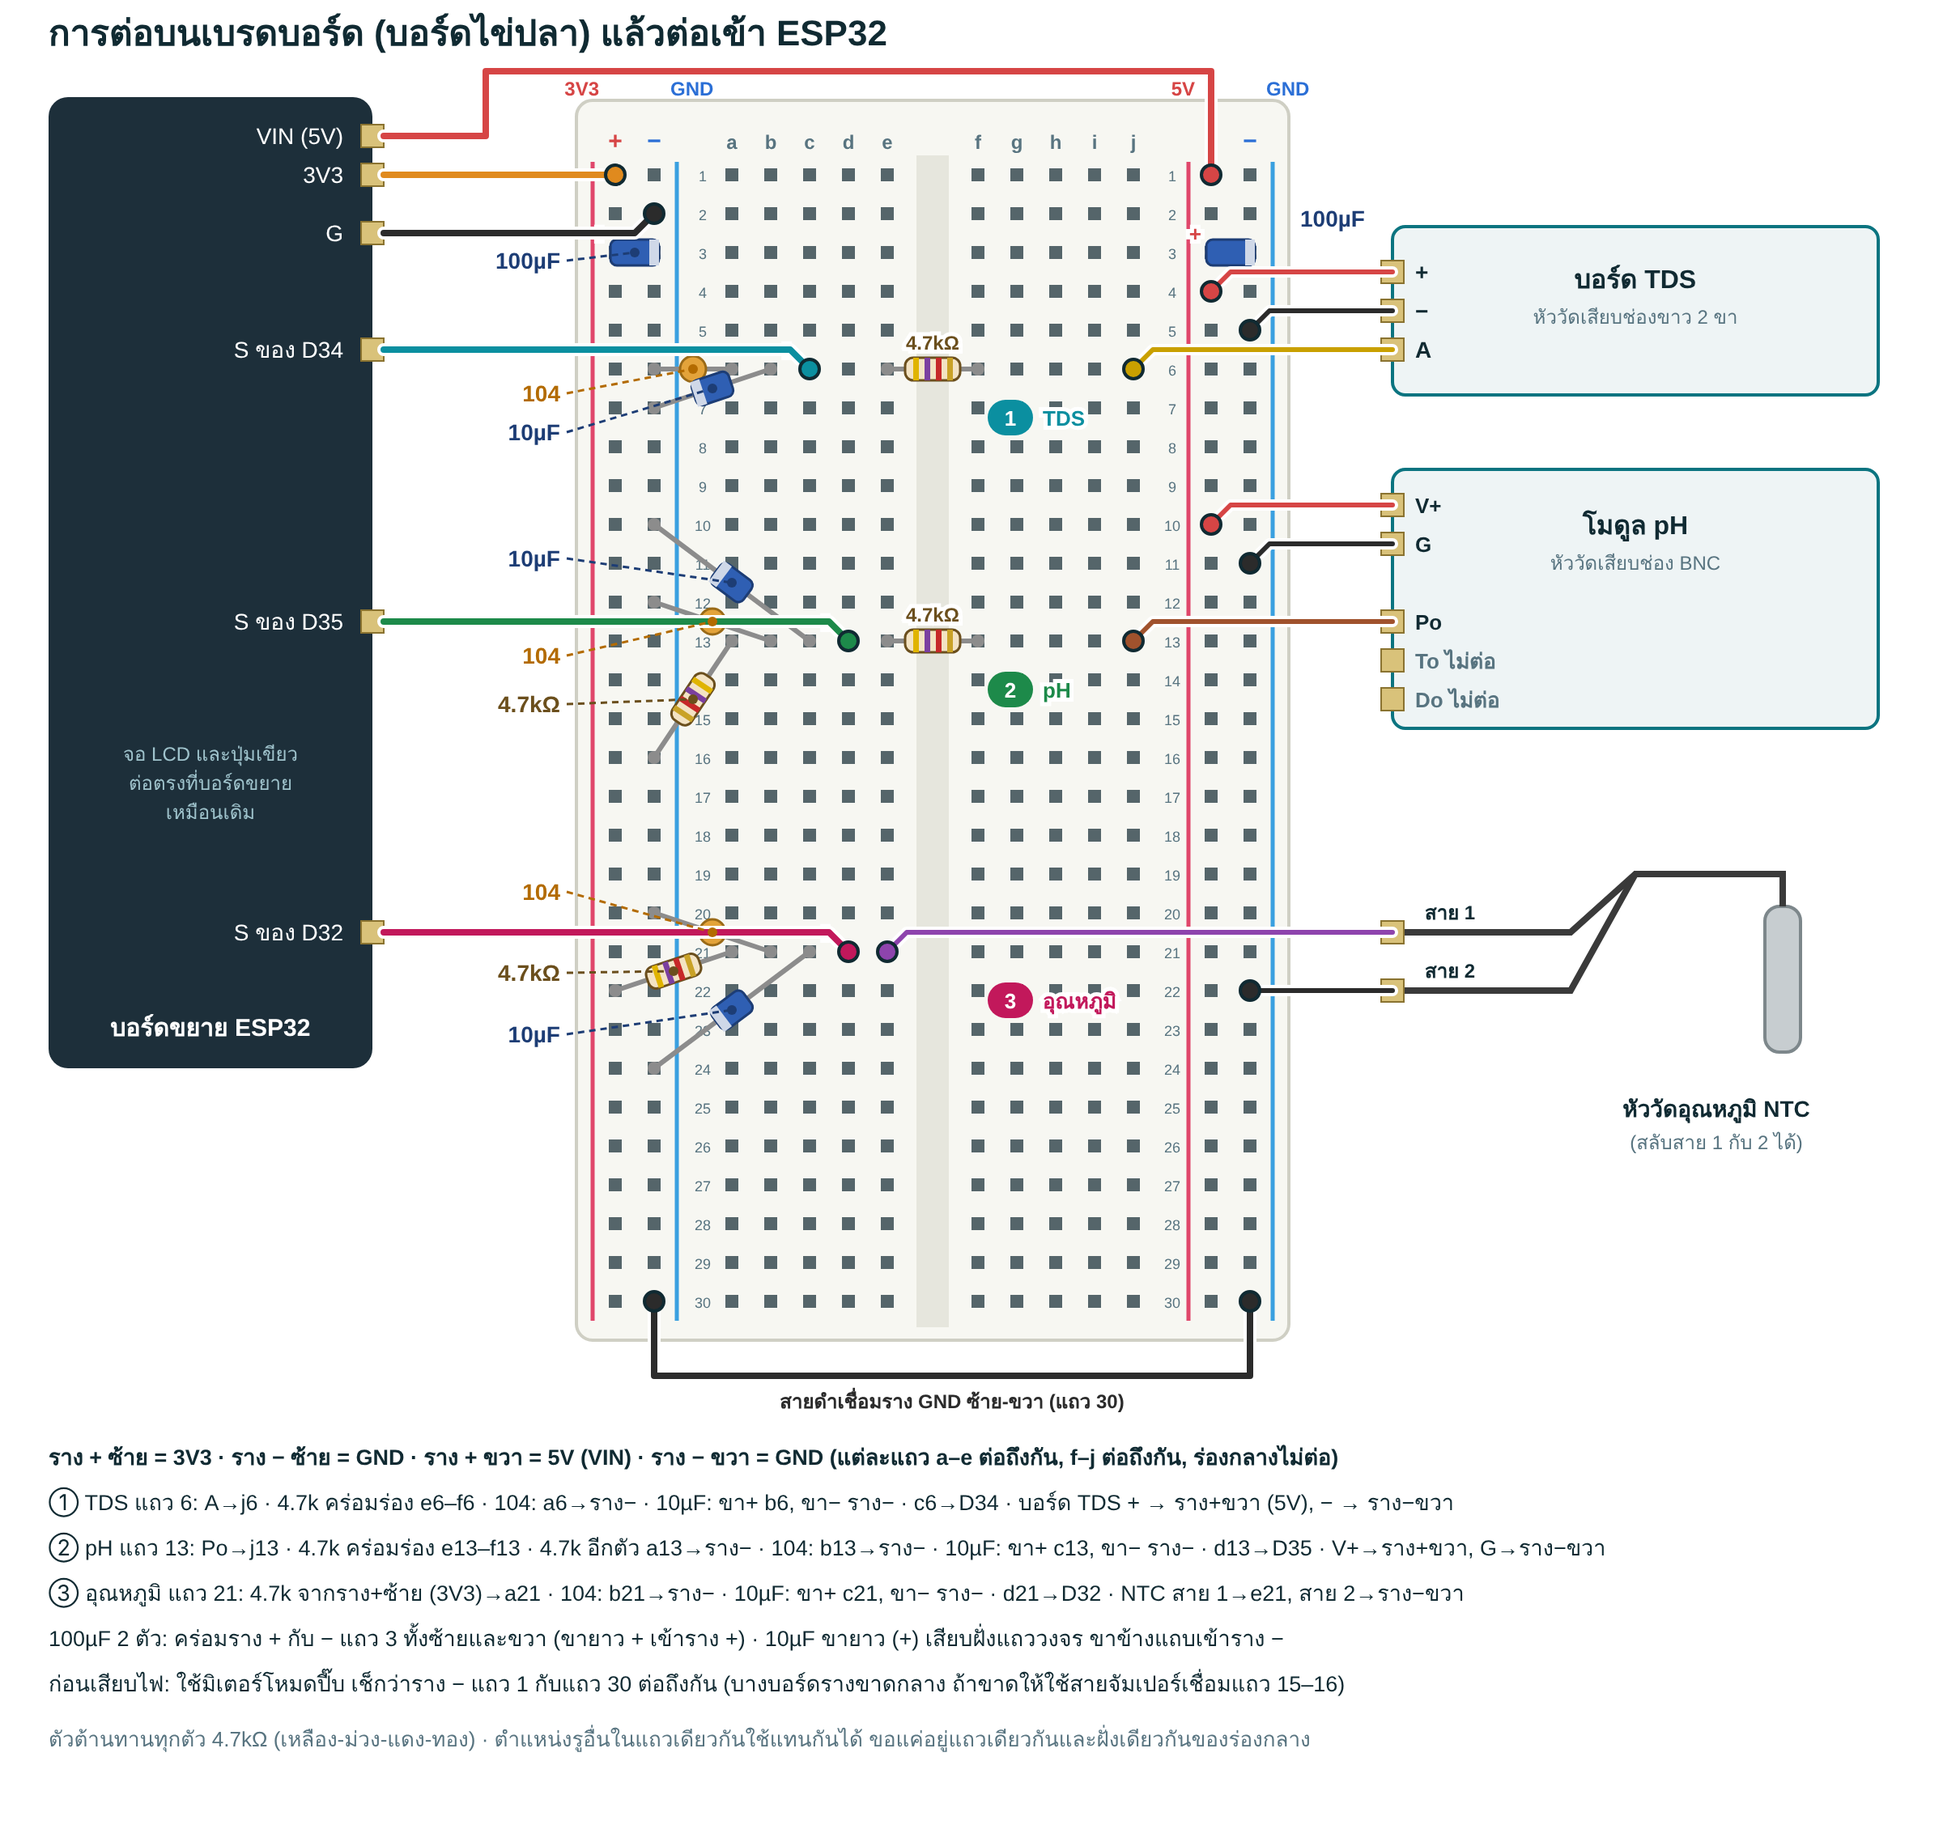
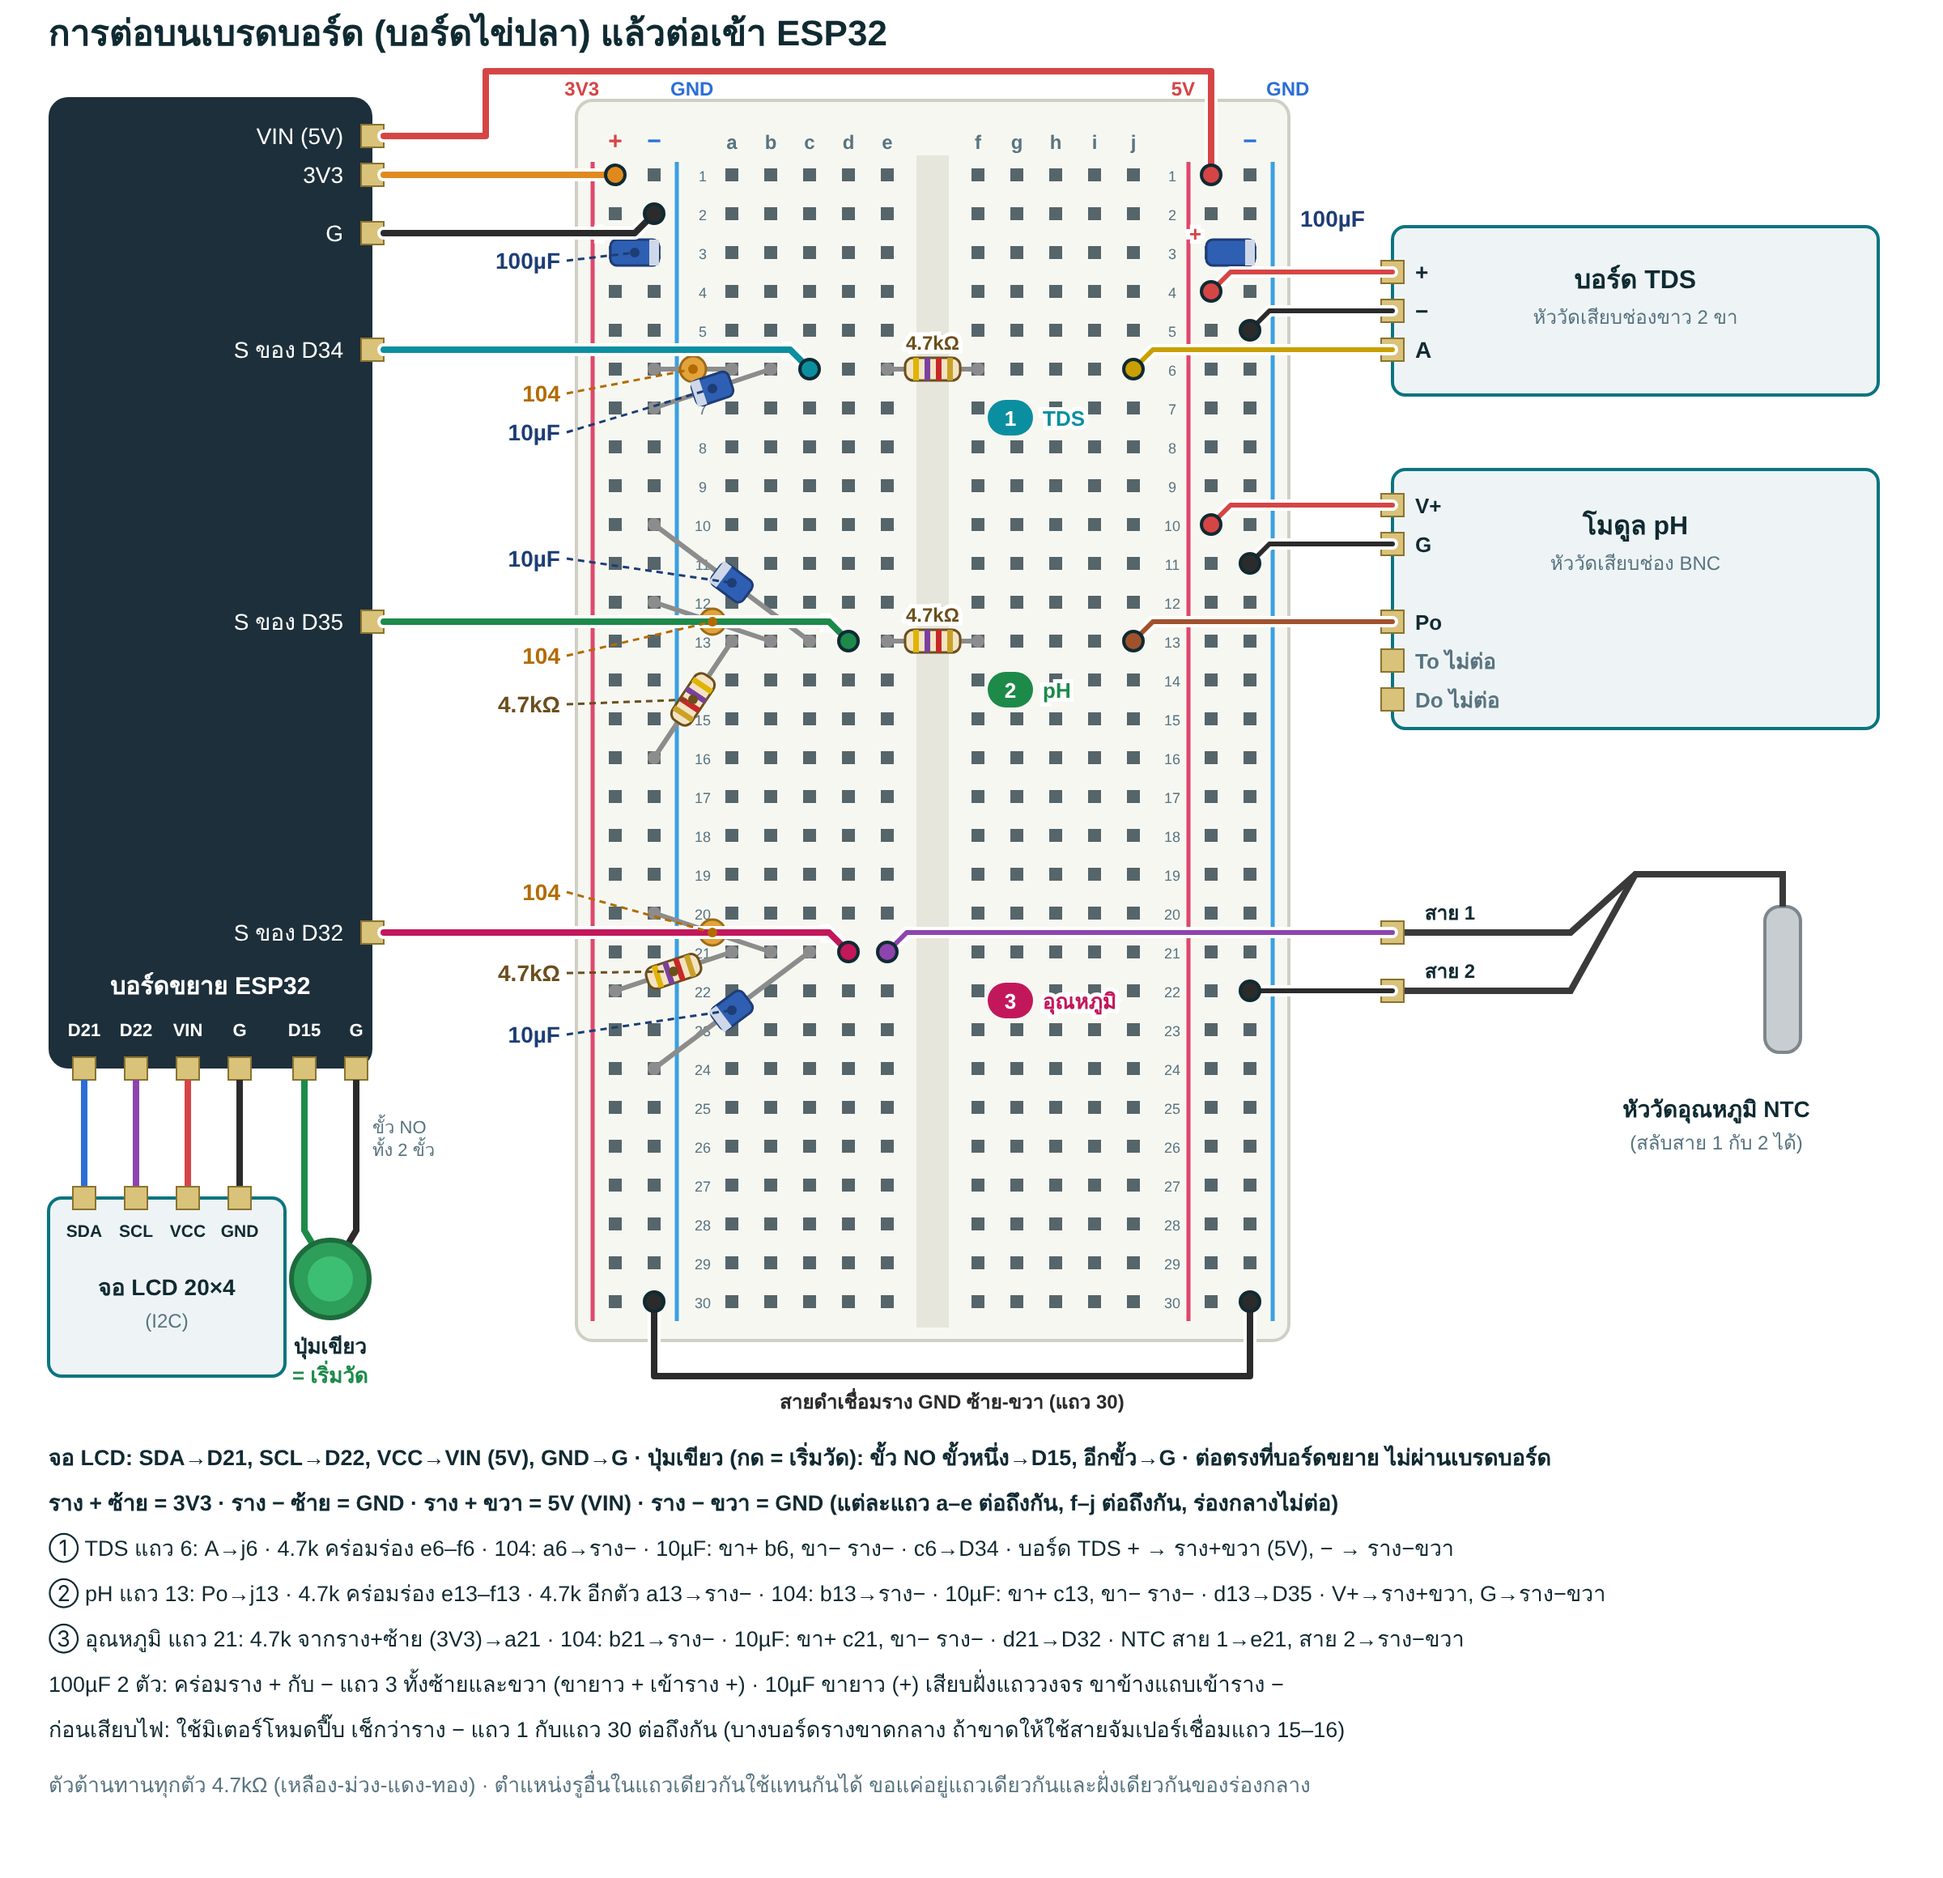
ภาพเบรดบอร์ด: เพิ่มจอ LCD และปุ่มเขียว (กด = เริ่มวัด) ต่อตรงที่บอร์ดขยาย
Claude-Session: https://claude.ai/code/session_01HLqKeGncnHJACoXNxPcGh5

diff --git a/tools/make_wiring_breadboard.py b/tools/make_wiring_breadboard.py
@@ -7,7 +7,7 @@ import math
 from pathlib import Path
 
 OUT = Path(__file__).resolve().parent.parent / "docs" / "wiring-breadboard.svg"
-W, H = 1200, 1130
+W, H = 1200, 1160
 INK, MUTED = "#102a32", "#587480"
 RED, BLACK, ORANGE, GREEN, BLUE, PURPLE, PINK = "#d64545", "#2b2b2b", "#e08a1e", "#1d8a4a", "#2b6fd6", "#8e44ad", "#c2185b"
 
@@ -121,14 +121,35 @@ text(782, 59, "GND", 12, BLUE, "start", True)
 
 # ---------- ESP32 ----------
 A('<rect x="30" y="60" width="200" height="600" rx="12" fill="#1d2f3a"/>')
-text(130, 640, "บอร์ดขยาย ESP32", 15, "#ffffff", "middle", True)
+text(130, 614, "บอร์ดขยาย ESP32", 15, "#ffffff", "middle", True)
 epins = [("VIN (5V)", 84), ("3V3", 108), ("G", 144), ("S ของ D34", 216), ("S ของ D35", 384), ("S ของ D32", 576)]
 for lab, y in epins:
     A(f'<rect x="223" y="{y-7}" width="14" height="14" fill="#d9c27a" stroke="#8a7330"/>')
     text(212, y + 5, lab, 14, "#ffffff", "end")
-text(130, 470, "จอ LCD และปุ่มเขียว", 12, "#9fc3cc", "middle")
-text(130, 488, "ต่อตรงที่บอร์ดขยาย", 12, "#9fc3cc", "middle")
-text(130, 506, "เหมือนเดิม", 12, "#9fc3cc", "middle")
+# ขาด้านล่างของบอร์ดขยาย: จอ LCD และปุ่มเขียว (ต่อตรง ไม่ผ่านเบรดบอร์ด)
+bpins = [("D21", 52), ("D22", 84), ("VIN", 116), ("G", 148), ("D15", 188), ("G", 220)]
+for lab, x in bpins:
+    A(f'<rect x="{x-7}" y="653" width="14" height="14" fill="#d9c27a" stroke="#8a7330"/>')
+    text(x, 640, lab, 11, "#ffffff", "middle", True)
+
+# จอ LCD
+A('<rect x="30" y="740" width="146" height="110" rx="8" fill="#eef4f5" stroke="#0b7480" stroke-width="2"/>')
+for lab, x, col in [("SDA", 52, BLUE), ("SCL", 84, PURPLE), ("VCC", 116, RED), ("GND", 148, BLACK)]:
+    A(f'<line x1="{x}" y1="667" x2="{x}" y2="733" stroke="{col}" stroke-width="4"/>')
+    A(f'<rect x="{x-7}" y="733" width="14" height="14" fill="#d9c27a" stroke="#8a7330"/>')
+    text(x, 764, lab, 10.5, INK, "middle", True)
+text(103, 800, "จอ LCD 20×4", 14, INK, "middle", True)
+text(103, 820, "(I2C)", 12, MUTED, "middle")
+
+# ปุ่มเขียว
+A('<polyline points="188,667 188,760 194,770" fill="none" stroke="#1d8a4a" stroke-width="4"/>')
+A('<polyline points="220,667 220,760 214,770" fill="none" stroke="#2b2b2b" stroke-width="4"/>')
+A('<circle cx="204" cy="790" r="24" fill="#2e9e5b" stroke="#1d6b3c" stroke-width="3"/>')
+A('<circle cx="204" cy="790" r="14" fill="#3cbf72"/>')
+text(204, 836, "ปุ่มเขียว", 13, INK, "middle", True)
+text(204, 854, "= เริ่มวัด", 13, GREEN, "middle", True)
+text(230, 700, "ขั้ว NO", 11, MUTED, "start")
+text(230, 714, "ทั้ง 2 ขั้ว", 11, MUTED, "start")
 
 # ---------- โมดูล ----------
 A('<rect x="860" y="140" width="300" height="104" rx="8" fill="#eef4f5" stroke="#0b7480" stroke-width="2"/>')
@@ -254,6 +275,7 @@ for r in (6, 13):
 # ---------- คำอธิบาย ----------
 y = 905
 notes = [
+    ("จอ LCD: SDA→D21, SCL→D22, VCC→VIN (5V), GND→G · ปุ่มเขียว (กด = เริ่มวัด): ขั้ว NO ขั้วหนึ่ง→D15, อีกขั้ว→G · ต่อตรงที่บอร์ดขยาย ไม่ผ่านเบรดบอร์ด", True),
     ("ราง + ซ้าย = 3V3 · ราง − ซ้าย = GND · ราง + ขวา = 5V (VIN) · ราง − ขวา = GND   (แต่ละแถว a–e ต่อถึงกัน, f–j ต่อถึงกัน, ร่องกลางไม่ต่อ)", True),
     ("① TDS แถว 6: A→j6 · 4.7k คร่อมร่อง e6–f6 · 104: a6→ราง− · 10µF: ขา+ b6, ขา− ราง− · c6→D34 · บอร์ด TDS + → ราง+ขวา (5V), − → ราง−ขวา", False),
     ("② pH แถว 13: Po→j13 · 4.7k คร่อมร่อง e13–f13 · 4.7k อีกตัว a13→ราง− · 104: b13→ราง− · 10µF: ขา+ c13, ขา− ราง− · d13→D35 · V+→ราง+ขวา, G→ราง−ขวา", False),
